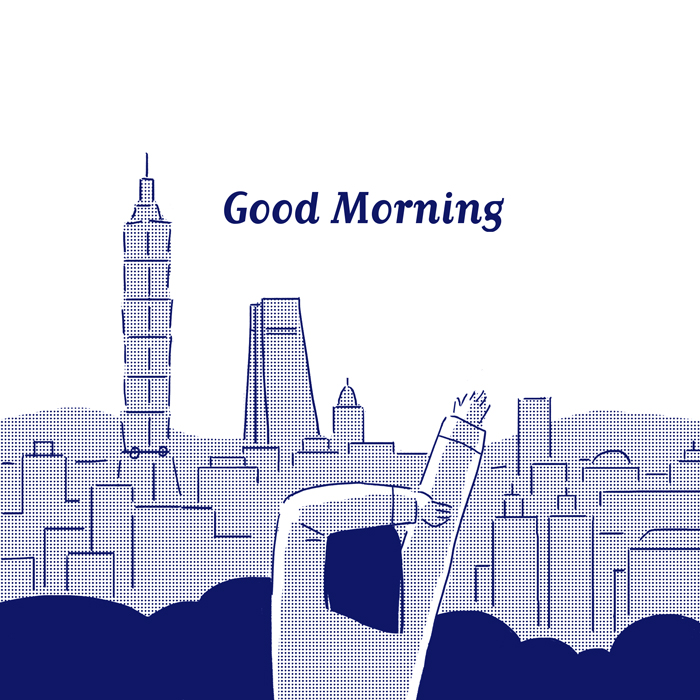
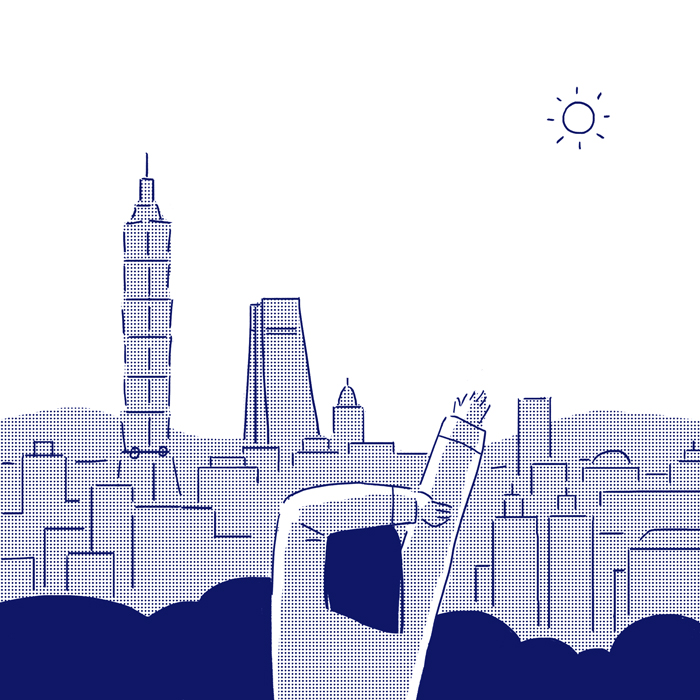
poster story

diff --git a/products/poster.html b/products/poster.html
@@ -93,10 +93,10 @@
                 <img src="../img/img_products_poster_panel_2.png" alt="Good evening" />
             </div>
             <div class="graphic-novel">
-                <img src="../img/img_products_poster_panel_1.png" alt="changing your window" />
+                <img src="../img/img_products_poster_panel_3.png" alt="changing your window" />
             </div>
             <div class="graphic-novel">
-                <img src="../img/img_products_poster_panel_1.png" alt="Good night" />
+                <img src="../img/img_products_poster_panel_4.png" alt="Good night" />
             </div>
         </div>
 
